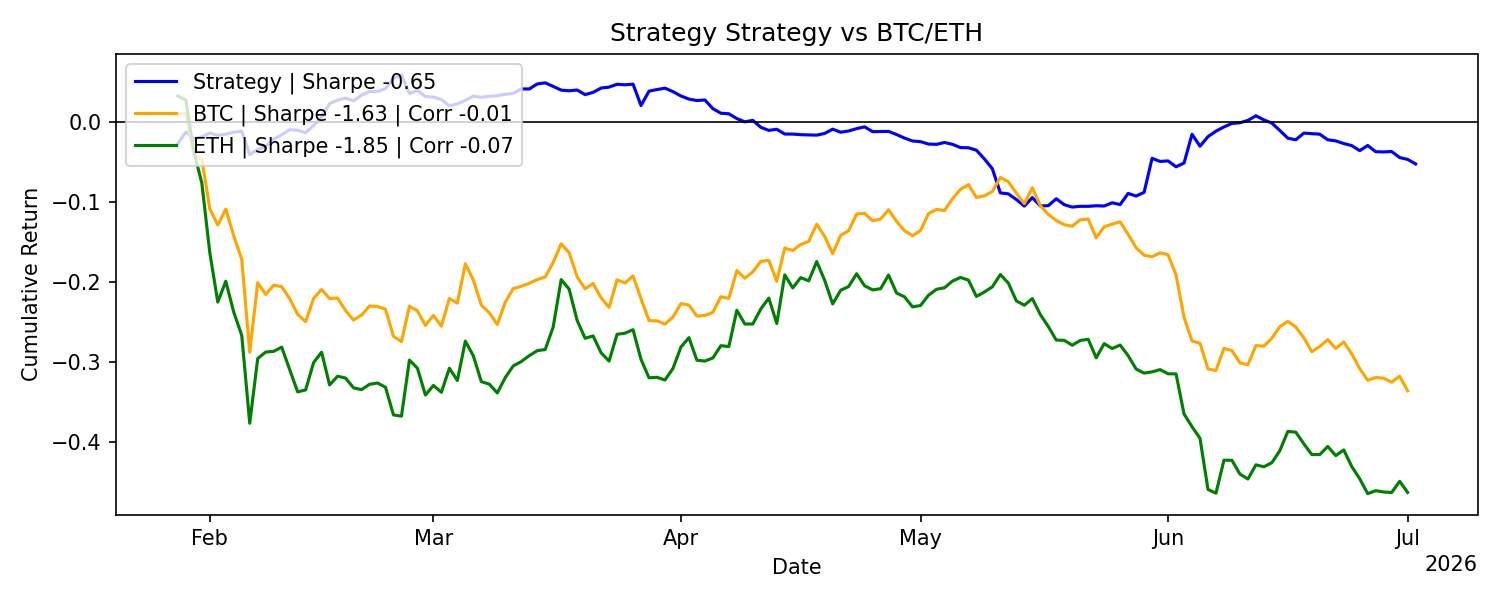
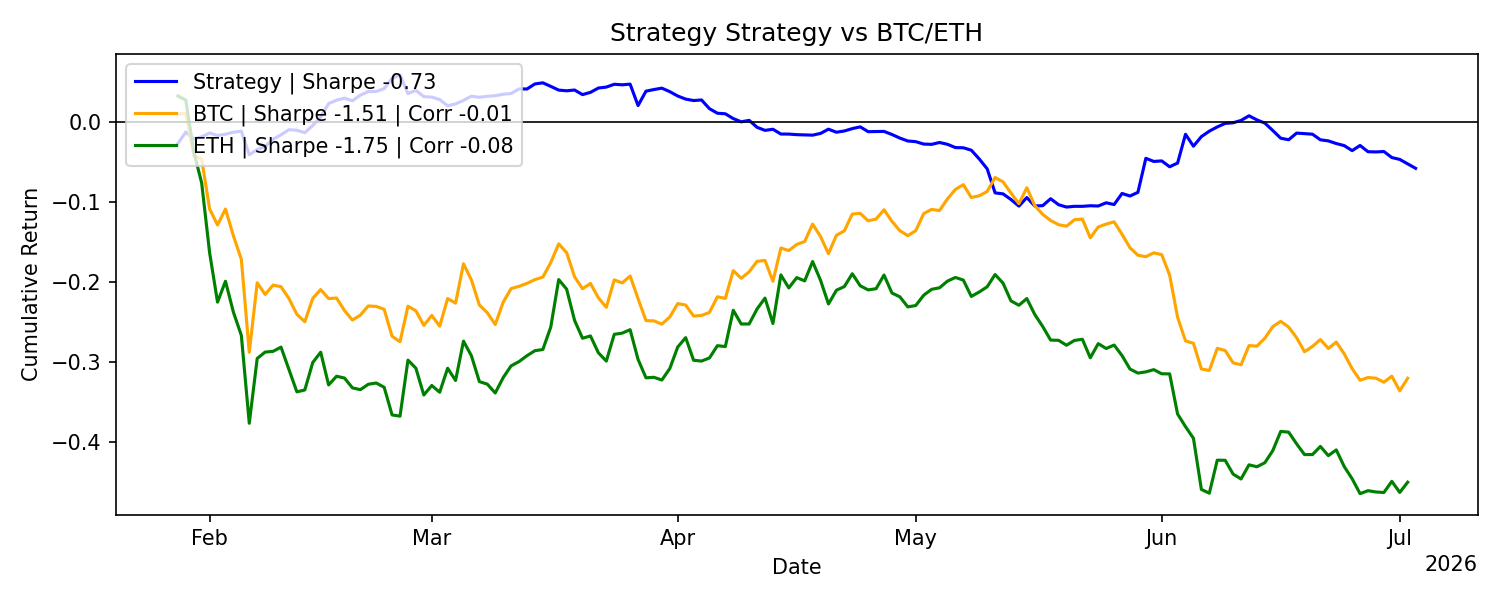
Update reports: 2026-07-02 23:59:53 UTC

diff --git a/README.md b/README.md
@@ -24,26 +24,26 @@ All results are live and reported net of transaction costs and slippage.
 <!-- METRICS_START -->
 | metric                       |        values |
 |:-----------------------------|--------------:|
-| Number of Observations       | 156           |
-| Mean Daily Return            |  -0.000304714 |
-| Daily Volatility             |   0.00896874  |
-| Mean Annualized Return       |  -0.111221    |
-| Annualized Volatility        |   0.171347    |
+| Number of Observations       | 157           |
+| Mean Daily Return            |  -0.000339814 |
+| Daily Volatility             |   0.00895075  |
+| Mean Annualized Return       |  -0.124032    |
+| Annualized Volatility        |   0.171004    |
 | Maximum Drawdown             |  -0.156146    |
-| Max Drawdown Duration (Days) | 127           |
-| Sharpe                       |  -0.649094    |
-| Sortino                      |  -0.890057    |
-| Calmar                       |  -0.712286    |
-| CAGR                         |  -0.118193    |
-| Skewness                     |   0.658524    |
-| Excess Kurtosis              |   7.89101     |
-| Win Rate                     |   0.480769    |
-| Profit Factor                |   0.897833    |
-| VaR 1%                       |  -0.0282114   |
+| Max Drawdown Duration (Days) | 128           |
+| Sharpe                       |  -0.725317    |
+| Sortino                      |  -0.998767    |
+| Calmar                       |  -0.794334    |
+| CAGR                         |  -0.129371    |
+| Skewness                     |   0.6686      |
+| Excess Kurtosis              |   7.91779     |
+| Win Rate                     |   0.477707    |
+| Profit Factor                |   0.88675     |
+| VaR 1%                       |  -0.0281816   |
 | CVaR 1%                      |  -0.030925    |
-| VaR 5%                       |  -0.0113995   |
+| VaR 5%                       |  -0.0113859   |
 | CVaR 5%                      |  -0.0220033   |
-| Correlation with BTC         |  -0.00505286  |
+| Correlation with BTC         |  -0.00898194  |
 <!-- METRICS_END -->
 
 ## Sharpe Statistics
@@ -55,14 +55,14 @@ All results are live and reported net of transaction costs and slippage.
 | metric                     |   values |
 |:---------------------------|---------:|
 | alpha                      |   0.05   |
-| t-statistic                |  -0.4243 |
-| p-value                    |   0.6719 |
-| Daily Sharpe Ratio         |  -0.034  |
-| Annualized Sharpe Ratio    |  -0.6491 |
-| Sharpe Standard Error      |   1.5538 |
-| C.I. Lower Bound           |  -3.6945 |
-| C.I. Upper Bound           |   2.3963 |
-| Bootstrap C.I. Lower Bound |  -3.9816 |
-| Bootstrap C.I. Upper Bound |   3.1765 |
+| t-statistic                |  -0.4757 |
+| p-value                    |   0.635  |
+| Daily Sharpe Ratio         |  -0.038  |
+| Annualized Sharpe Ratio    |  -0.7253 |
+| Sharpe Standard Error      |   1.5516 |
+| C.I. Lower Bound           |  -3.7664 |
+| C.I. Upper Bound           |   2.3158 |
+| Bootstrap C.I. Lower Bound |  -4.0533 |
+| Bootstrap C.I. Upper Bound |   3.0347 |
 <!-- SHARPE_END -->
 
